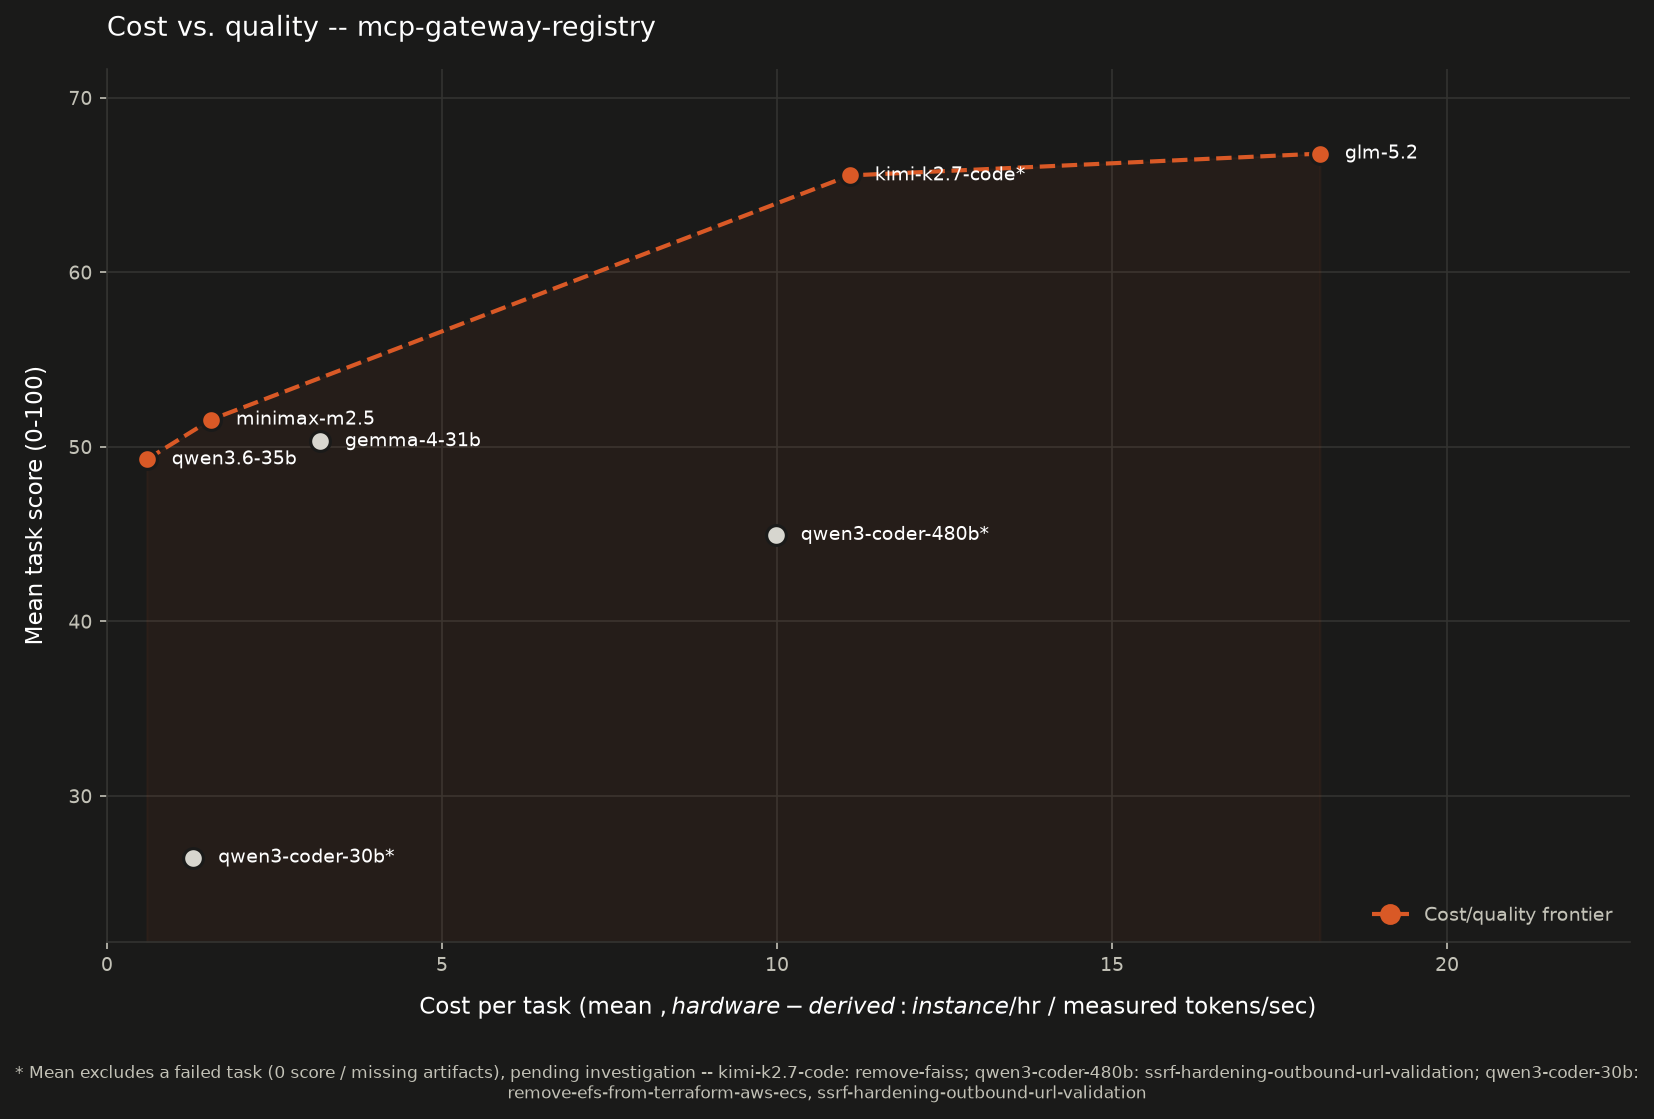
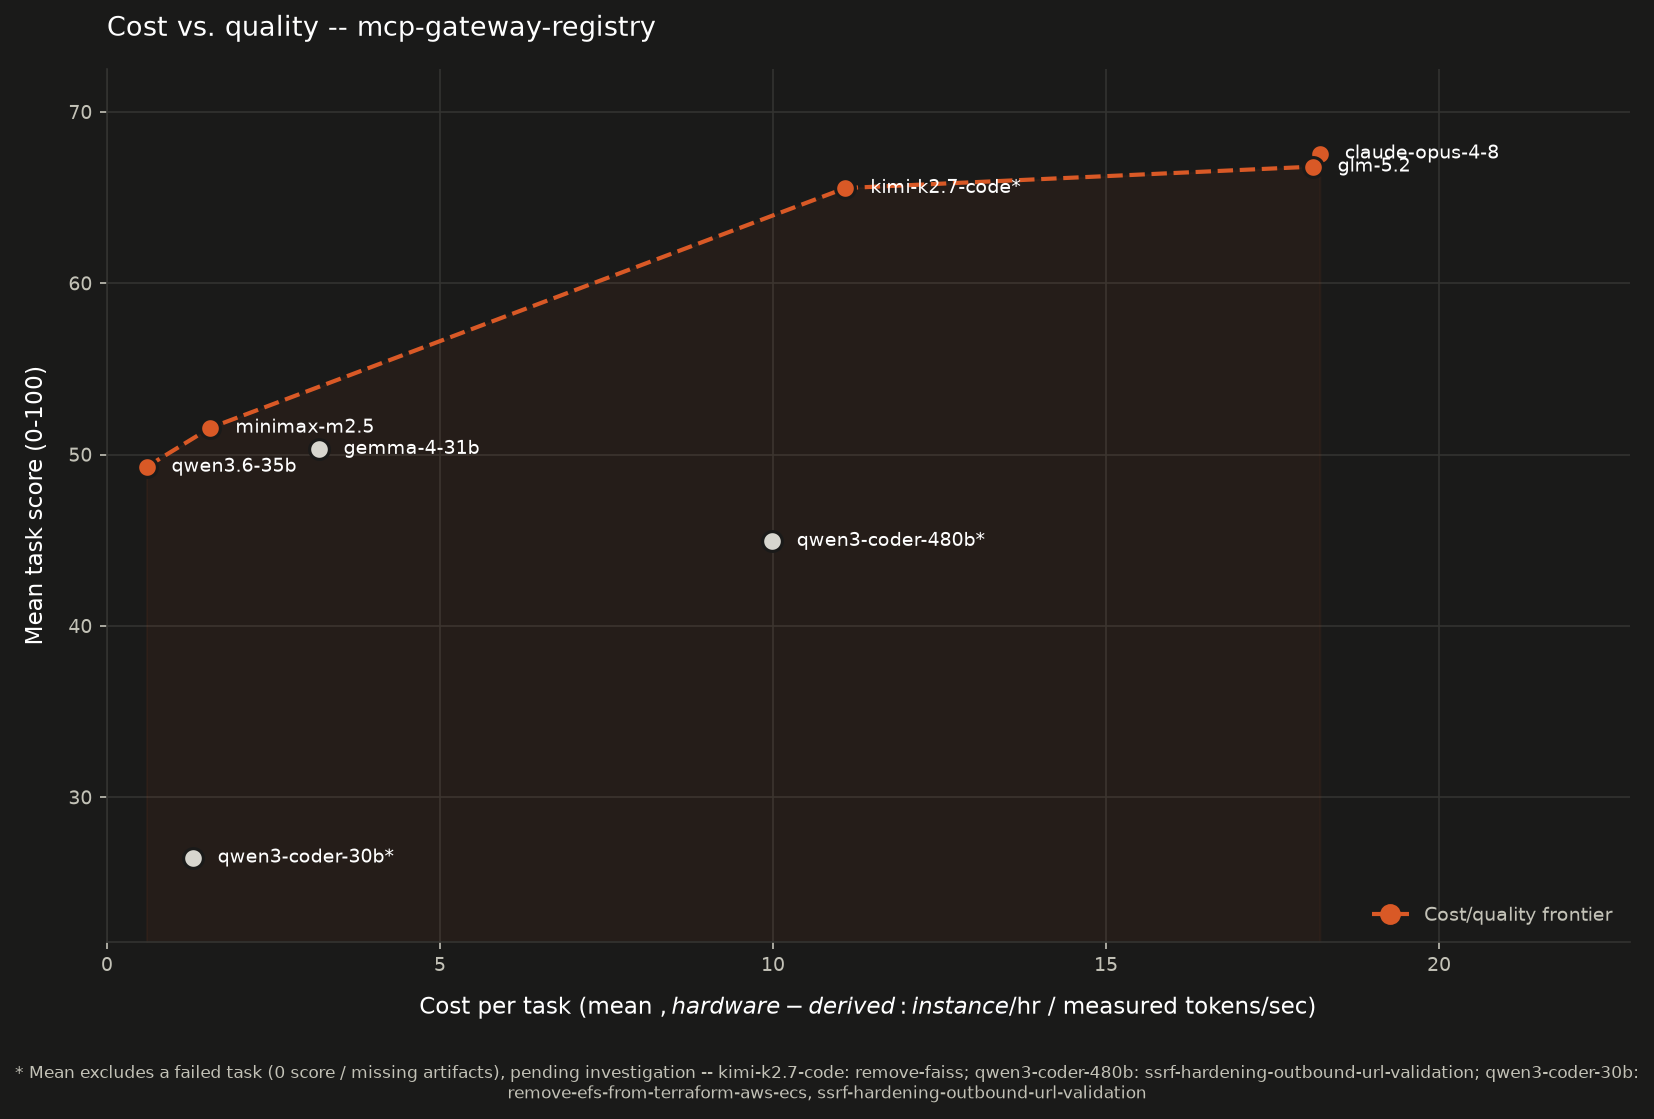
README: add Claude-Opus-4.8 (Path 1, Bedrock) to results, leaderboard, chart
First Path 1 (Anthropic on Amazon Bedrock) result: Claude-Opus-4.8 tops the
quality table at mean 67.56 over 5/5 tasks, just ahead of the self-hosted
GLM-5.2 (66.80) -- and at essentially the same cost per task ($18.21 metered
Bedrock API bill vs GLM's $18.10 hardware-derived). Added it as the leading
column in the task matrix, rank 1 in the leaderboard, and a new point on the
cost-quality frontier (now 8 models, 5 on frontier).

Cost provenance is flagged (footnote 9 + a leaderboard dagger): Opus's $/task is
a real token-metered API charge, not the instance-$/hr-derived figure used for
the self-hosted rows -- comparable as spend, different in kind. Recomputed
per-row bold (Opus wins remove-efs and migrate); refreshed the lead narrative,
the model list, and the coming-soon note. Regenerated both chart themes.

diff --git a/README.md b/README.md
@@ -97,7 +97,7 @@ A dataset is a single YAML file: a metadata header plus a list of tasks, each po
 
 ## Results: a worked example
 
-To show what the harness produces, we ran it against [agentic-community/mcp-gateway-registry](https://github.com/agentic-community/mcp-gateway-registry) at tag `1.24.4` -- **5 tasks**, each scored by the judge. The numbers below are only for models **we have actually run end to end so far**, all **self-hosted via vLLM**: two frontier models (Kimi-K2.7-Code and GLM-5.2) on **8x H200 (`p5en.48xlarge`)**, and three open-weight Qwen models on a single **`g6e.12xlarge` (4x L40S)**. The other hosting paths (Anthropic on Bedrock, open-weight on Bedrock via the LiteLLM proxy) are **coming soon** -- we publish only what we have measured here. (The `mcp-gateway-registry` dataset ships in [benchmarks/dataset/](benchmarks/dataset/mcp-gateway-registry.yaml) so you can reproduce the run; the generated artifacts themselves are not committed, so a customer's own runs never risk landing in version control. The only committed worked example under [benchmarks/swe-benchmark-data/](benchmarks/swe-benchmark-data/) is the trivial `Hello-World` sanity run.)
+To show what the harness produces, we ran it against [agentic-community/mcp-gateway-registry](https://github.com/agentic-community/mcp-gateway-registry) at tag `1.24.4` -- **5 tasks**, each scored by the judge. The numbers below are only for models **we have actually run end to end so far**: **Claude-Opus-4.8** on **Amazon Bedrock (Path 1)**, plus a range of open-weight models **self-hosted via vLLM (Path 3)** -- frontier MoEs (Kimi-K2.7-Code, GLM-5.2, MiniMax-M2.5, Qwen3-Coder-480B) on **8x H200 (`p5en.48xlarge`)** and smaller models on a single **`g6e.12xlarge` (4x L40S)**. Path 2 (open-weight on Bedrock via the LiteLLM proxy) is **coming soon** -- we publish only what we have measured here. (The `mcp-gateway-registry` dataset ships in [benchmarks/dataset/](benchmarks/dataset/mcp-gateway-registry.yaml) so you can reproduce the run; the generated artifacts themselves are not committed, so a customer's own runs never risk landing in version control. The only committed worked example under [benchmarks/swe-benchmark-data/](benchmarks/swe-benchmark-data/) is the trivial `Hello-World` sanity run.)
 
 | # | Problem | Difficulty | Source |
 |---|---------|-----------|--------|
@@ -107,7 +107,7 @@ To show what the harness produces, we ran it against [agentic-community/mcp-gate
 | 4 | `migrate-ecs-env-vars-to-secrets-manager` | High | Upstream [#1134](https://github.com/agentic-community/mcp-gateway-registry/issues/1134) |
 | 5 | `replace-keycloak-db-password-with-rds-iam` | High | Upstream [#1303](https://github.com/agentic-community/mcp-gateway-registry/issues/1303) |
 
-**Models benchmarked so far (all Path 3, self-hosted on vLLM):** Kimi-K2.7-Code, GLM-5.2, MiniMax-M2.5, and Qwen3-Coder-480B-A35B-Instruct (all on 8x H200 / `p5en.48xlarge`), plus Qwen3.6-35B-A3B, Qwen3-Coder-30B-A3B-Instruct, Qwen3-Coder-Next, and Gemma-4-31B-it (on `g6e.12xlarge` / 4x L40S). **Coming soon:** Path 1 (Anthropic family on Bedrock -- Claude Opus/Sonnet/Haiku) and Path 2 (open-weight on Bedrock via the LiteLLM proxy -- DeepSeek, Mistral, …).
+**Models benchmarked so far:** **Path 1 (Bedrock):** Claude-Opus-4.8. **Path 3 (self-hosted on vLLM):** Kimi-K2.7-Code, GLM-5.2, MiniMax-M2.5, and Qwen3-Coder-480B-A35B-Instruct (all on 8x H200 / `p5en.48xlarge`), plus Qwen3.6-35B-A3B, Qwen3-Coder-30B-A3B-Instruct, Qwen3-Coder-Next, and Gemma-4-31B-it (on `g6e.12xlarge` / 4x L40S). **Coming soon:** the rest of the Anthropic family on Bedrock (Sonnet/Haiku) and Path 2 (open-weight on Bedrock via the LiteLLM proxy -- DeepSeek, Mistral, …).
 
 ### Scoring rubric (LLM-as-judge)
 
@@ -122,20 +122,20 @@ Each of the 4 artifacts is scored 0-100 by an independent judge session. Within 
 
 **Artifact total = sum of 4 criteria (0-100). Task score = mean of the 4 artifact totals (also 0-100).** The judge is calibrated so a median artifact scores around 60-70, not 85; 90+ is reserved for genuinely excellent work; hallucinated files or functions lose at least 10 points off Correctness. Per-cell JSON with criterion breakdowns and judge notes lives at `{model}/{repo}/{task}/eval.json`. The judge itself is documented in the [harness reference](benchmarks/docs/harness-reference.md#scoring-the-artifacts-the-judge).
 
-### Results -- 5 tasks x self-hosted models
+### Results -- 5 tasks x models
 
-All cells are task scores (0-100), the mean of the artifact totals per (task x model). These are **`/swe2` runs -- design *and* implementation** (six artifacts: the four design docs plus `patch.diff` + `implementation.md`), scored by the same judge (`codex exec`, `gpt-5.6-sol`, high reasoning effort). All models were **self-hosted via vLLM**; hardware differs by model size (see the row under the table). Bold = top score in row. Other hosting paths are **coming soon**.
+All cells are task scores (0-100), the mean of the artifact totals per (task x model). These are **`/swe2` runs -- design *and* implementation** (six artifacts: the four design docs plus `patch.diff` + `implementation.md`), scored by the same judge (`codex exec`, `gpt-5.6-sol`, high reasoning effort). **Claude-Opus-4.8** is the first **Path 1** result (Anthropic on Amazon Bedrock); every other column is **Path 3, self-hosted via vLLM** (hardware differs by model size -- see the row under the table). Bold = top score in row. The other Bedrock paths are still **coming soon**.
 
-| Task | Difficulty | GLM-5.2⁶ | Kimi-K2.7-Code | MiniMax-M2.5 | Gemma-4-31B | Qwen3.6-35B | Qwen3-Coder-480B⁷ | Qwen3-Coder-30B | Qwen3-Coder-Next⁴ |
-|------|-----------|---------:|---------------:|-------------:|------------:|------------:|------------------:|----------------:|:-----------------:|
-| `remove-faiss` | Medium | 62.8 | 0.0 ⁵ | 44.2 | 49.4 | **57.6** | 45.6 | 24.4 | n/a |
-| `remove-efs-from-terraform-aws-ecs` | Medium | **73.8** | 70.8 | 62.0 | 60.4 | 59.0 | 55.4 | 0.0 ⁵ | n/a |
-| `ssrf-hardening-outbound-url-validation` | Medium | 64.6 | **72.0** | 58.2 | 49.4 | 54.6 | 0.0 ⁵ | 0.0 ⁵ | n/a |
-| `migrate-ecs-env-vars-to-secrets-manager` | High | **68.6** | 67.2 | 53.6 | 52.4 | 39.2 | 41.0 | 32.2 | n/a |
-| `replace-keycloak-db-password-with-rds-iam` | High | **64.2** | 52.2 | 39.8 | 40.0 | 36.0 | 37.8 | 22.8 | n/a |
-| **Mean (excl. failed task⁵)** | | **66.80** | 65.55 | 51.56 | 50.32 | 49.28 | 44.95 | 26.47 | n/a |
+| Task | Difficulty | Claude-Opus-4.8⁹ | GLM-5.2⁶ | Kimi-K2.7-Code | MiniMax-M2.5 | Gemma-4-31B | Qwen3.6-35B | Qwen3-Coder-480B⁷ | Qwen3-Coder-30B | Qwen3-Coder-Next⁴ |
+|------|-----------|-----------------:|---------:|---------------:|-------------:|------------:|------------:|------------------:|----------------:|:-----------------:|
+| `remove-faiss` | Medium | 56.6 | **62.8** | 0.0 ⁵ | 44.2 | 49.4 | 57.6 | 45.6 | 24.4 | n/a |
+| `remove-efs-from-terraform-aws-ecs` | Medium | **78.2** | 73.8 | 70.8 | 62.0 | 60.4 | 59.0 | 55.4 | 0.0 ⁵ | n/a |
+| `ssrf-hardening-outbound-url-validation` | Medium | 69.0 | 64.6 | **72.0** | 58.2 | 49.4 | 54.6 | 0.0 ⁵ | 0.0 ⁵ | n/a |
+| `migrate-ecs-env-vars-to-secrets-manager` | High | **79.8** | 68.6 | 67.2 | 53.6 | 52.4 | 39.2 | 41.0 | 32.2 | n/a |
+| `replace-keycloak-db-password-with-rds-iam` | High | 54.2 | **64.2** | 52.2 | 39.8 | 40.0 | 36.0 | 37.8 | 22.8 | n/a |
+| **Mean (excl. failed task⁵)** | | **67.56** | 66.80 | 65.55 | 51.56 | 50.32 | 49.28 | 44.95 | 26.47 | n/a |
 
-The **Mean** row excludes any task that scored 0 -- a genuine model failure (missing artifacts), which is an unresolved anomaly rather than a quality measurement, so it is left out of the average **pending further investigation** and flagged with `⁵`. Per-task 0.0 cells are still shown so the failure is visible. GLM-5.2 / MiniMax-M2.5 / Qwen3.6-35B / Gemma-4-31B score over all 5 tasks (no failures); Kimi over 4 (one failed), Qwen3-Coder-480B over 4, Qwen3-Coder-30B over 3 (two failed).
+The **Mean** row excludes any task that scored 0 -- a genuine model failure (missing artifacts), which is an unresolved anomaly rather than a quality measurement, so it is left out of the average **pending further investigation** and flagged with `⁵`. Per-task 0.0 cells are still shown so the failure is visible. Claude-Opus-4.8 / GLM-5.2 / MiniMax-M2.5 / Qwen3.6-35B / Gemma-4-31B score over all 5 tasks (no failures); Kimi over 4 (one failed), Qwen3-Coder-480B over 4, Qwen3-Coder-30B over 3 (two failed).
 
 **Hardware:** Kimi-K2.7-Code (1.06T-param MoE, ~1 TB weights) ran on **8x H200** (`p5en.48xlarge`) at its full **131,072-token (128K) native context window**; GLM-5.2 (744B MoE / 40B active, ~750 GB FP8 weights), MiniMax-M2.5, and Qwen3-Coder-480B (480B MoE / 35B active, FP8, TP=4) also ran on **8x H200** (`p5en.48xlarge`); the three smaller Qwen models (3B-active MoE) and Gemma-4-31B (dense, ~63 GB) ran on a single **`g6e.12xlarge`** (4x L40S) at a 200K window. All via vLLM. Gemma-4-31B is dense and slow, so it used a raised per-task timeout (`--timeout-seconds 3600`); the default 1800s was not enough for it to return. Note Kimi's 128K window is below the harness's 200K agentic-coding guideline, yet it completed 4 of 5 tasks -- the one failure (`keycloak-rds-iam`) was a turn-cap timeout, not a context overflow.
 
@@ -147,11 +147,13 @@ The **Mean** row excludes any task that scored 0 -- a genuine model failure (mis
 
 ⁷ **Qwen3-Coder-480B intermittently fails to produce artifacts -- the failure is nondeterministic, not task-specific.** Qwen3-Coder-480B (`Qwen/Qwen3-Coder-480B-A35B-Instruct-FP8`, 480B MoE / 35B active) was served on the **8x H200** node at **TP=4** (a block-FP8 MoE sharding constraint forces TP=4, not 8 -- see [its model guide](self-hosted/vllm/models/qwen3-coder-480b.md)), 200K window. Like the smaller Qwen3-Coder-30B, it periodically explores/edits the repo instead of completing the artifact chain (or exhausts the turn cap), scoring 0 on some tasks. It is a harness-conformance instability of a coder-tuned model, not a serving or context problem.
 
+⁹ **Claude-Opus-4.8 is a Path 1 (Bedrock) result -- its cost is a real metered API bill, not hardware-derived.** `us.anthropic.claude-opus-4-8` was run through Amazon Bedrock (no self-hosting), so its **$18.21/task** is the actual token-metered charge, whereas every self-hosted model's `$/task` is `instance $/hr / measured tokens/sec` x tokens (see the cost section). They are comparable as "what you would pay," but the provenance differs. Opus tops the quality table (67.56 over 5/5) at a cost essentially tied with the most expensive self-hosted model (GLM-5.2, $18.10) -- i.e. on this benchmark the best-quality option is a frontier API model, and it is not more expensive per task than running a 744B MoE on an 8x H200 box.
+
 ### Cost vs. quality
 
 ![Cost vs. quality scatter: mean estimated cost per task against mean task score, for the self-hosted models, with the cost/quality frontier highlighted](docs/images/cost-quality.png)
 
-Mean **hardware-derived** cost per task (x) against mean task score (y), one point per model. **Cost is now measured, not estimated:** each model's blended cost per token (from its throughput sweep -- instance $/hr / measured tokens/sec, see [cost-per-task-methodology.md](self-hosted/vllm/cost-per-task-methodology.md)) times that model's *actual* input+output tokens per task on this quality run, averaged over its non-failed tasks. The cost/quality frontier runs **Qwen3.6-35B ($0.59 / 49.28) -> MiniMax-M2.5 ($1.55 / 51.56) -> Kimi-K2.7-Code ($11.09 / 65.55) -> GLM-5.2 ($18.10 / 66.80)**; Gemma-4-31B ($3.18 / 50.32), Qwen3-Coder-30B ($1.29 / 26.47), and Qwen3-Coder-480B ($9.98 / 44.95) sit **below** the frontier (dominated), and Qwen3-Coder-Next is omitted (not viable on this node). A model's mean excludes any 0-score failed task, matching the table (see footnote ⁵). Regenerate from the committed run + performance summaries with `uv run scripts/plot_cost_quality.py` (add `--dark` for the dark theme) from `benchmarks/`.
+Mean cost per task (x) against mean task score (y), one point per model. For **self-hosted** models cost is **hardware-derived**: each model's blended cost per token (from its throughput sweep -- instance $/hr / measured tokens/sec, see [cost-per-task-methodology.md](self-hosted/vllm/cost-per-task-methodology.md)) times that model's *actual* input+output tokens per task, averaged over its non-failed tasks. For **Claude-Opus-4.8** (Path 1, Bedrock) cost is the **real token-metered API bill** -- comparable as spend, different in kind (footnote ⁹). The cost/quality frontier runs **Qwen3.6-35B ($0.59 / 49.28) -> MiniMax-M2.5 ($1.55 / 51.56) -> Kimi-K2.7-Code ($11.09 / 65.55) -> GLM-5.2 ($18.10 / 66.80) -> Claude-Opus-4.8 ($18.21 / 67.56)**; Gemma-4-31B ($3.18 / 50.32), Qwen3-Coder-30B ($1.29 / 26.47), and Qwen3-Coder-480B ($9.98 / 44.95) sit **below** the frontier (dominated), and Qwen3-Coder-Next is omitted (not viable on this node). A model's mean excludes any 0-score failed task, matching the table (see footnote ⁵). Regenerate from the committed run + performance summaries with `uv run scripts/plot_cost_quality.py` (add `--dark` for the dark theme) from `benchmarks/`.
 
 ### Per-model leaderboard (self-hosted, so far)
 
@@ -159,22 +161,25 @@ Mean score is over the tasks each model completed (any 0-score failed task is ex
 
 | Rank | Model | Params (active) | Hardware | Mean score | $/task | Tasks scored |
 |-----:|-------|----------------|----------|-----------:|-------:|-------------:|
-| 1 | GLM-5.2⁶ | 744B (40B) | 8x H200 | **66.80** | $18.10 | 5/5 |
-| 2 | Kimi-K2.7-Code | 1,058.6B (MoE) | 8x H200 | **65.55** | $11.09 | 4/5 |
-| 3 | MiniMax-M2.5 | 230B (10B) | 8x H200 (TP=4) | **51.56** | $1.55 | 5/5 |
-| 4 | Gemma-4-31B-it | 31B (dense) | g6e.12xlarge | **50.32** | $3.18 | 5/5 |
-| 5 | Qwen3.6-35B-A3B | 35.9B (3B) | g6e.12xlarge | **49.28** | **$0.59** | 5/5 |
-| 6 | Qwen3-Coder-480B-A35B-Instruct⁷ | 480B (35B) | 8x H200 (TP=4) | **44.95** | $9.98 | 4/5 |
-| 7 | Qwen3-Coder-30B-A3B-Instruct | 30.5B (3B) | g6e.12xlarge | **26.47** | $1.29 | 3/5 |
+| 1 | Claude-Opus-4.8⁹ | -- (Bedrock) | Amazon Bedrock (Path 1) | **67.56** | $18.21† | 5/5 |
+| 2 | GLM-5.2⁶ | 744B (40B) | 8x H200 | **66.80** | $18.10 | 5/5 |
+| 3 | Kimi-K2.7-Code | 1,058.6B (MoE) | 8x H200 | **65.55** | $11.09 | 4/5 |
+| 4 | MiniMax-M2.5 | 230B (10B) | 8x H200 (TP=4) | **51.56** | $1.55 | 5/5 |
+| 5 | Gemma-4-31B-it | 31B (dense) | g6e.12xlarge | **50.32** | $3.18 | 5/5 |
+| 6 | Qwen3.6-35B-A3B | 35.9B (3B) | g6e.12xlarge | **49.28** | **$0.59** | 5/5 |
+| 7 | Qwen3-Coder-480B-A35B-Instruct⁷ | 480B (35B) | 8x H200 (TP=4) | **44.95** | $9.98 | 4/5 |
+| 8 | Qwen3-Coder-30B-A3B-Instruct | 30.5B (3B) | g6e.12xlarge | **26.47** | $1.29 | 3/5 |
 | - | Qwen3-Coder-Next | 79.6B (3B) | (needs bigger node) | not viable on g6e.12xlarge | -- | 0 |
 
-**Coming soon:** Claude Opus/Sonnet/Haiku (Path 1, Bedrock) and the open-weight Bedrock models via the LiteLLM proxy (Path 2 -- DeepSeek, Mistral, …).
+† Claude-Opus-4.8's `$/task` is a real Bedrock **API bill** (token-metered), not a hardware-derived figure like the self-hosted rows; see footnote `⁹`.
+
+**Coming soon:** the rest of the Anthropic family on Bedrock (Claude Sonnet/Haiku, Path 1) and the open-weight Bedrock models via the LiteLLM proxy (Path 2 -- DeepSeek, Mistral, …).
 
 ### What the data says (so far)
 
 These are early self-hosted numbers on differing hardware; treat them as a starting point, not a final ranking. Cross-path comparisons wait until the Bedrock paths are run.
 
-- **GLM-5.2 leads on quality (66.80 over 5/5), Kimi-K2.7-Code is close behind (65.55 over 4/5)** -- but both need an 8x H200 box and cost **$11-18 per task**, an order of magnitude more than the small-node models. On this `/swe2` (design + implementation) benchmark the trillion-parameter models are the quality ceiling but the expensive corner of the frontier.
+- **Claude-Opus-4.8 leads on quality (67.56 over 5/5), the self-hosted GLM-5.2 is essentially level (66.80)** -- and at nearly the same cost per task ($18.21 metered API vs $18.10 hardware-derived). The headline: a frontier API model tops the table, but a 744B open-weight MoE you host yourself matches it on both quality and cost. Kimi-K2.7-Code (65.55 over 4/5) is close behind at ~$11. On this `/swe2` (design + implementation) benchmark these three are the quality ceiling and the expensive corner of the frontier.
 - **Qwen3.6-35B is the value story, now with a measured price:** on one mid-range GPU node (a single g6e.12xlarge) it scores 49.28 over all 5 tasks with no failures at a **hardware-derived $0.59 per task** -- the cheapest measured, ~30x under GLM-5.2, and on the cost/quality frontier.
 - **MiniMax-M2.5 is the best quality-per-dollar in the upper half:** 51.56 over 5/5 at **$1.55/task** -- it beats the dense Gemma-4-31B ($3.18) and the much pricier Qwen3-Coder-480B ($9.98) while costing a fraction, sitting on the frontier just above Qwen3.6-35B.
 - **Cost is now measured, not estimated.** Every $/task above is `instance $/hr / measured tokens/sec` (from each model's throughput sweep) times that model's real per-task token load -- so the cost axis reflects actual serving economics on the benchmarked hardware, not a token-price guess. See [cost-per-task-methodology.md](self-hosted/vllm/cost-per-task-methodology.md).
